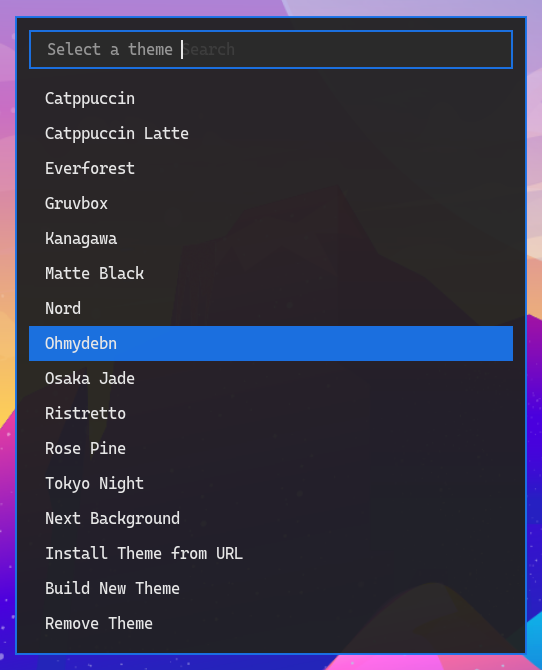
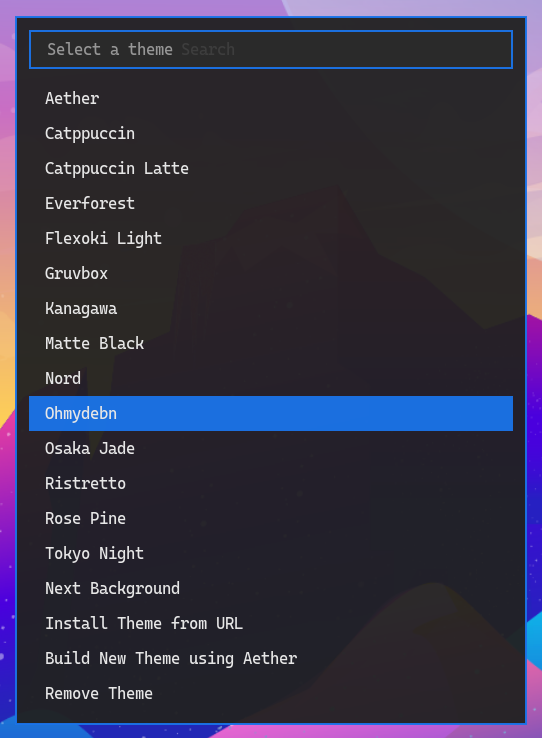
update ohmydebn-theme-set-gui screenshot and documentation

Changed region(s): [[0.0, 0.0, 1.0, 1.0], [0.9742, 0.6567, 1.0, 0.7164], [0.9742, 0.3284, 1.0, 0.3881]]

diff --git a/docs/desktop-themes.md b/docs/desktop-themes.md
@@ -6,7 +6,7 @@ The default OhMyDebn theme is based on a modified Catppuccin Mocha theme.
 
 ## Changing Theme
 
-You can change the desktop theme by pressing `Ctrl + Super + T`. This will bring up a list of installed themes including the default Ohmydebn theme and several themes from Omarchy. There are also options at the end of the list titled `Next Background`, `Install Theme from URL`, `Build New Theme`, and `Remove Theme`.
+You can change the desktop theme by pressing `Ctrl + Super + T`. This will bring up a list of installed themes including the default Ohmydebn theme and several themes from Omarchy. There are also options at the end of the list titled `Next Background`, `Install Theme from URL`, `Build New Theme using Aether`, and `Remove Theme`.
 
 ![OhMyDebn desktop themes](https://raw.githubusercontent.com/dougburks/ohmydebn-docs/refs/heads/main/images/ohmydebn-theme-set-gui.png)
 ## Backgrounds
@@ -73,7 +73,7 @@ Here are some screenshots of the themes included from Omarchy.
 
 ## Building New Themes using Aether
 
-The `Build New Theme` option allows you to build your own theme using the [Aether](https://github.com/bjarneo/aether) theme builder. Here are a few example screenshots.
+The `Build New Theme using Aether` option allows you to build your own theme using the [Aether](https://github.com/bjarneo/aether) theme builder. Here are a few example screenshots.
 
 ![OhMyDebn theme build 1](https://raw.githubusercontent.com/dougburks/ohmydebn-docs/refs/heads/main/images/ohmydebn-aether-1.png)
 ![OhMyDebn theme build 2](https://raw.githubusercontent.com/dougburks/ohmydebn-docs/refs/heads/main/images/ohmydebn-aether-2.png)
